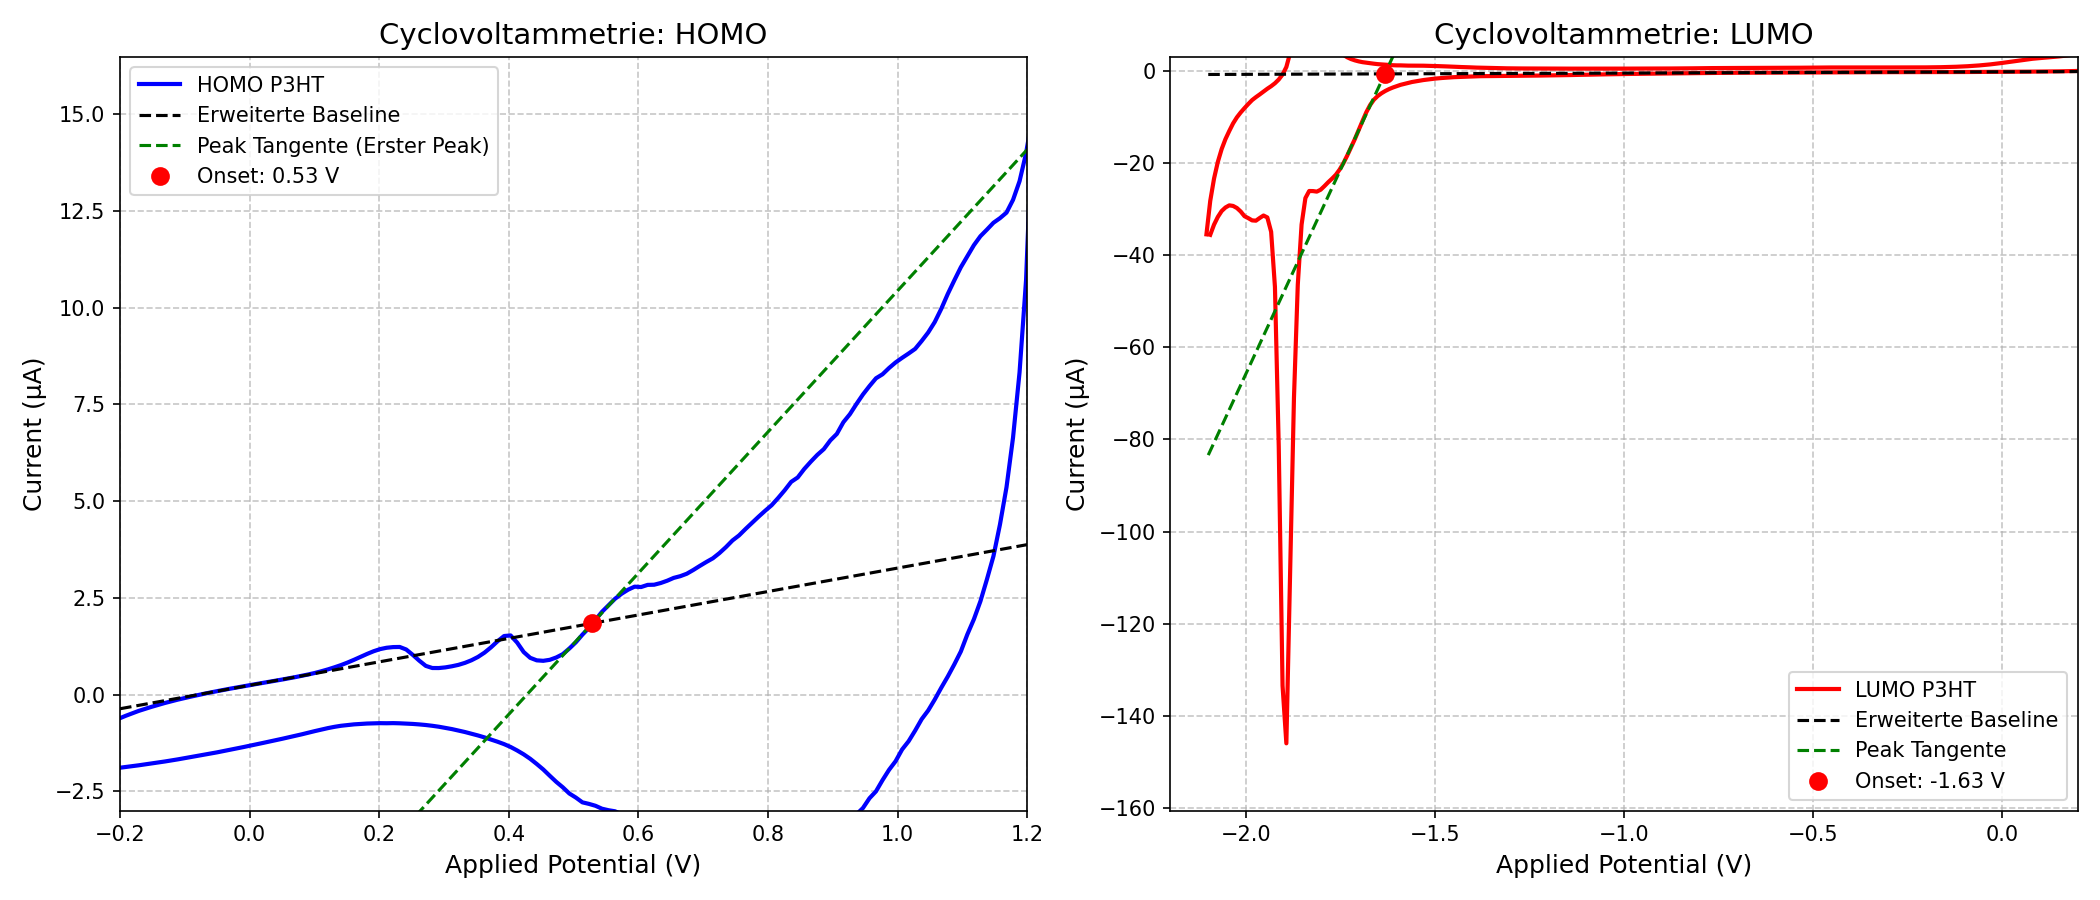
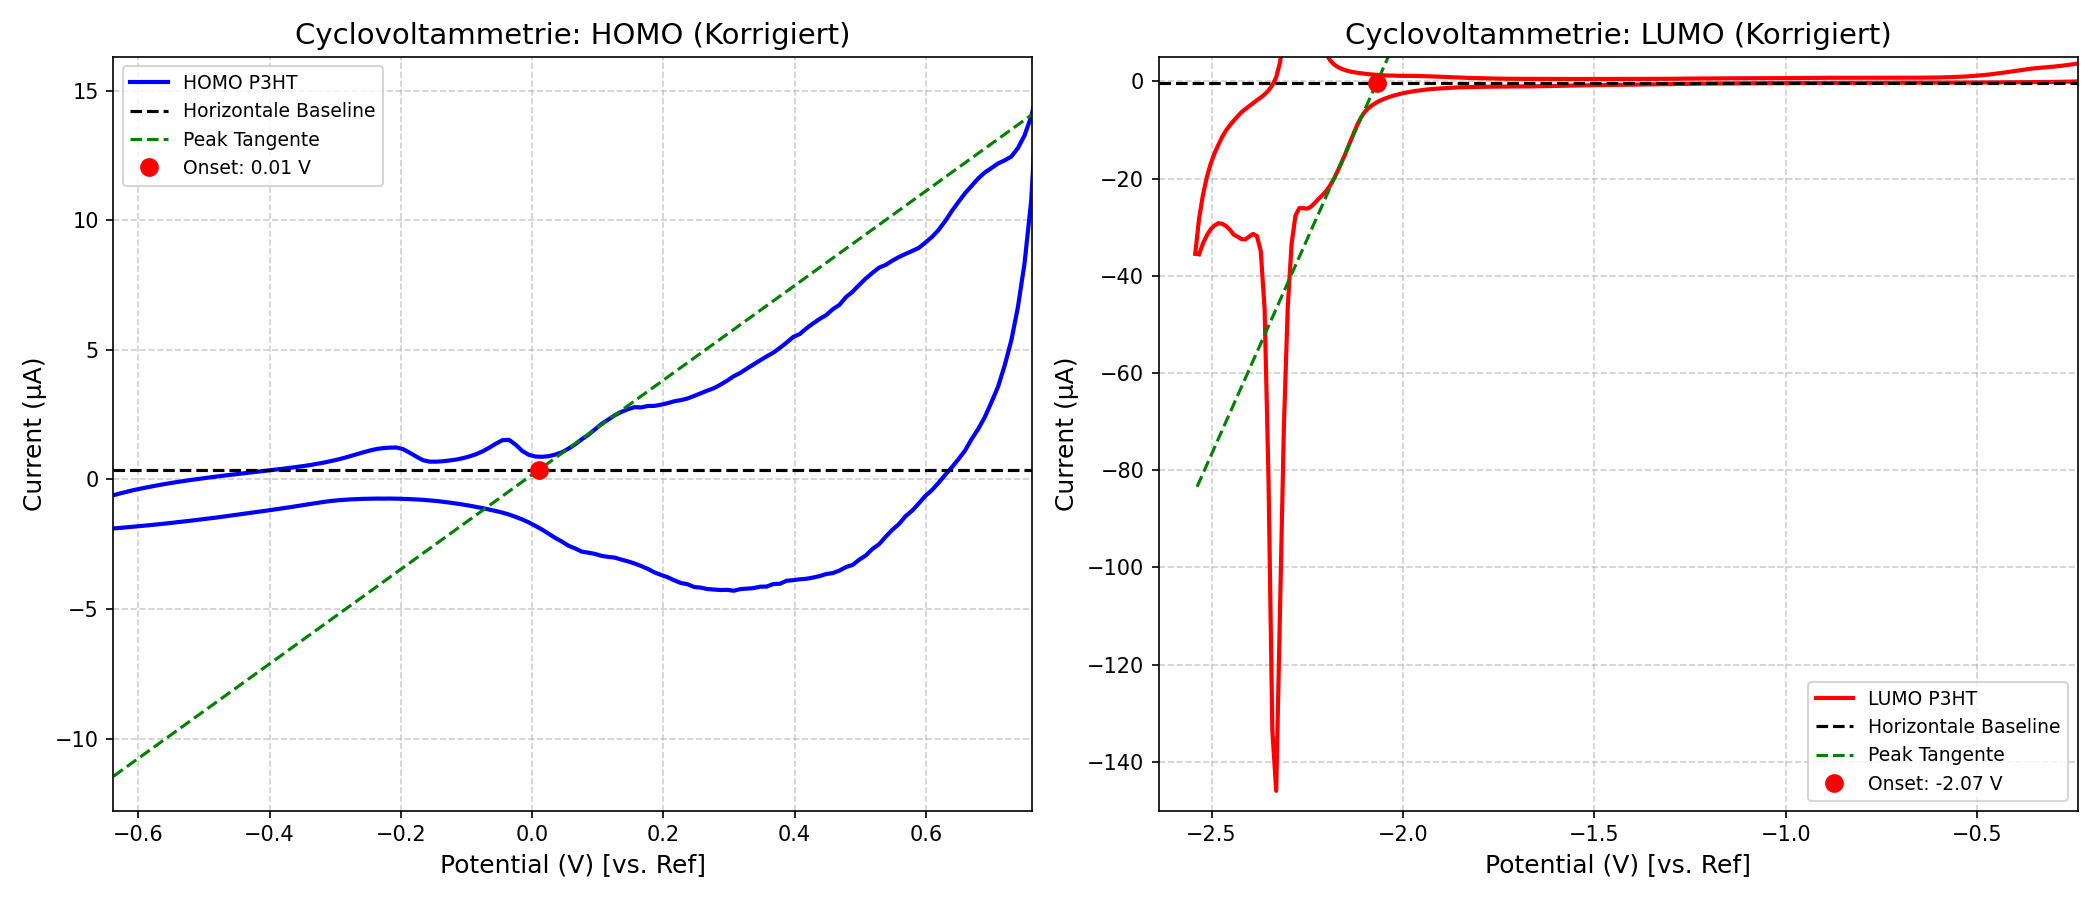
Emulsion EPoly Abgeschickt

diff --git a/1. Abgabe/Elektropolymerisation/Protokoll.tex b/1. Abgabe/Elektropolymerisation/Protokoll.tex
@@ -271,19 +271,19 @@
 
 		Nach dieser Methode ergab sich ein Oxidations-Onset-Potential von P3HT von $\SI{0,31}{V}$ und ein Reduktions-Onset-Potential von $\SI{-2,26}{V}$. 
 		Diese werden anschließend noch mit dem Fermi-Skalar verrechnet, womit die jeweiligen Energieniveaus für das HOMO- und LUMO-Niveau zu
-		haha
+		
 			\begin{eqnarray}
-				E(\text{HOMO}) =& -(0,31 + 5,1)\\
-							   =& \SI{-5,41}{eV}\\
-				E(\text{LUMO}) =& -(2,26 + 5,1)\\
-							   =& \SI{-7,36}{eV} 
+				E(\text{HOMO}) =& -(0,011 + 5,1)\\
+							   =& \SI{-5,111}{eV}\\
+				E(\text{LUMO}) =& -(-2,069 + 5,1)\\
+							   =& \SI{-3,031}{eV} 
 			\end{eqnarray}
 
 		ergeben.\\
 		Die Energiedifferenz und somit die Bandlücke liegt dabei dann bei
 
 		\begin{equation*}
-			band \, gap = |\SI{-5,41}{eV} - \SI{-7,36}{eV}| = \SI{1,95}{eV} \text{.}
+			band \, gap = |\SI{-5,111}{eV} - \SI{-3,031}{eV}| = \SI{2,08}{eV} \text{.}
 		\end{equation*}
 
 		
@@ -296,8 +296,8 @@
 		Es wird unteranderem deutlich, dass bei verlängern des Intervalls die Stromstärke eher wieder auf die $\SI{0}{A}$ absinkt. 
 		Der Grund, weshalb der Strom erst bei längerer Zeit $\SI{0}{A}$ erreicht, ist die Schichtdicke des PEDOTs. Bei dem Experiment wurde das PEDOT 
 		auf eine Elektrode aufgetragen und wurde nicht gelöst, wodurch die Teilchenbewegung limitiert ist. Durch die geringe Teilchenbewegung ist die 
-		Leitfähigkeit von PEDOT sehr gering, weshalb es Zeit benötigt die Elektronen durch die Schicht PEDOT zu transportieren und die gesamte Schicht 
-		zu oxidieren bzw. zu reduzieren. 
+		Leitfähigkeit von PEDOT sehr gering, weshalb es Zeit benötigt die Ionen durch die Schicht PEDOT zu transportieren und die gesamte Schicht 
+		zu kompensieren. 
 		So wird bei der Messung von \SI{0.3}{s} und \SI{0.5}{s} (Abbildung \ref{0.3} und Abbildung \ref{0.5}) schon vor dem erreichen von 
 		$\SI{0}{A}$ Umgepolt.
 

diff --git a/1. Abgabe/Elektropolymerisation/Python/HOMO-LUMO-Anlauf2.py b/1. Abgabe/Elektropolymerisation/Python/HOMO-LUMO-Anlauf2.py
@@ -10,7 +10,7 @@ correction = -0.438
 # Pfade zu den Dateien (bitte hier deine Pfade eintragen)
 path_homo = r'C:\Users\laure\Documents\Uni\Chemie\Semester 5\PolyLab\Poly\1. Abgabe\Elektropolymerisation\Messwerte\HOMO_P3HT.txt'
 path_lumo = r'C:\Users\laure\Documents\Uni\Chemie\Semester 5\PolyLab\Poly\1. Abgabe\Elektropolymerisation\Messwerte\LUMO_P3HT.txt'
-path_save = r'C:\Users\laure\Documents\Uni\Chemie\Semester 5\PolyLab\Poly\1. Abgabe\Elektropolymerisation\Bilder'
+path_save = r'C:\Users\laure\Documents\Uni\Chemie\Semester 5\PolyLab\Poly\1. Abgabe\Elektropolymerisation\Bilder\P3HT_Tangents.png'
 
 # 1. Daten einlesen
 df_homo = pd.read_csv(path_homo, sep='\t', skiprows=1, names=['Potential applied (V)', 'WE(1).Current (A)'])
@@ -139,7 +139,7 @@ ax2.plot(v_line_l, (m_p_l * v_line_l + c_p_l) * 1e6, 'g--', label='Peak Tangente
 ax2.plot(v_on_l, i_on_l * 1e6, 'ro', ms=8, label=f'Onset: {v_on_l:.2f} V')
 
 ax2.set_xlim(-2.2 + correction, 0.2 + correction)
-ax2.set_ylim(-150, 0.1)
+ax2.set_ylim(-150, 5)
 ax2.set_title('Cyclovoltammetrie: LUMO (Korrigiert)', fontsize=14)
 ax2.set_xlabel('Potential (V) [vs. Ref]', fontsize=12)
 ax2.set_ylabel('Current (µA)', fontsize=12)
